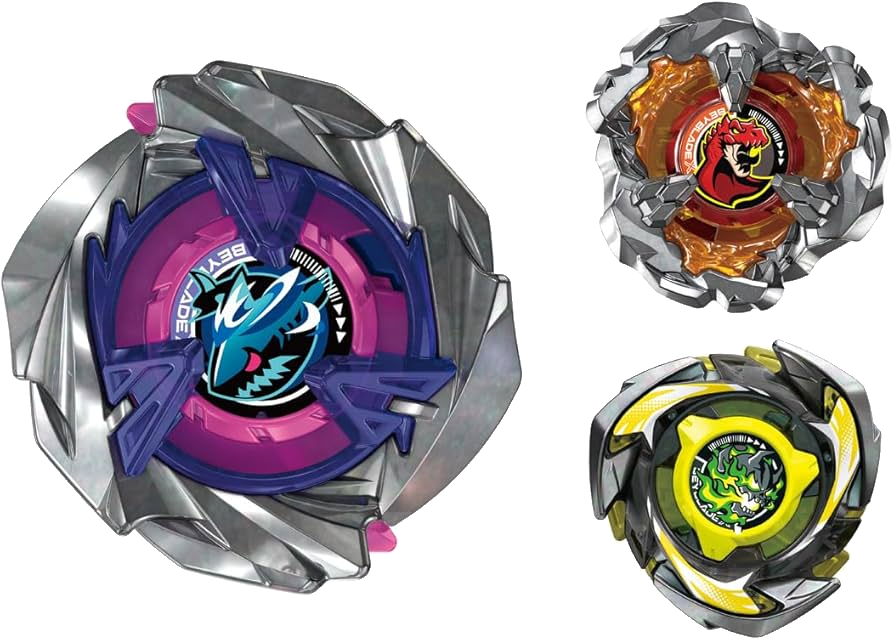
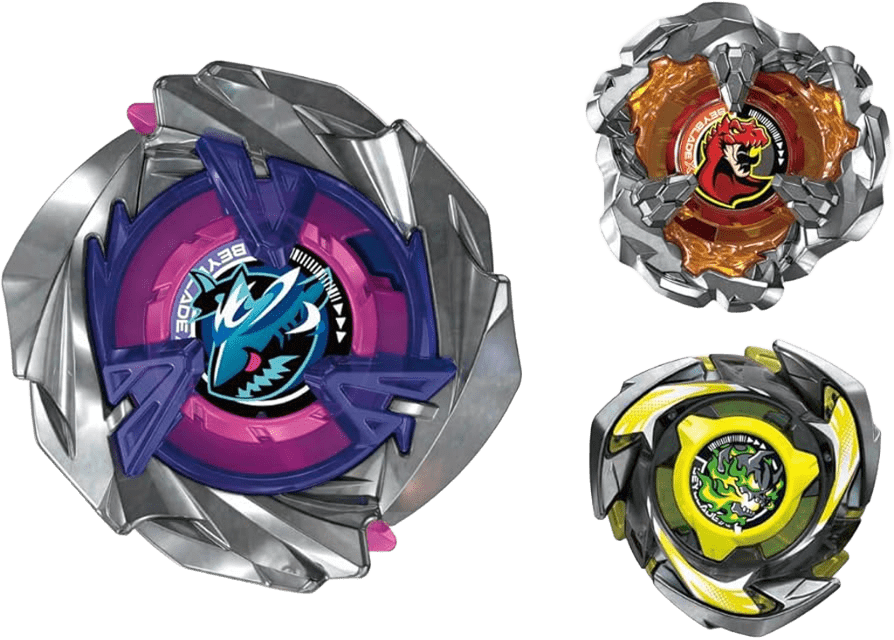
Use the background-removed prize photos

diff --git a/index.html b/index.html
@@ -205,15 +205,15 @@
       <h2><span class="num">賞</span>獎品</h2>
       <div class="prizes">
         <figure class="prize gold">
-          <img src="prize-champion.png?v=2" alt="冠軍獎品" />
+          <img src="prize-champion.png?v=3" alt="冠軍獎品" />
           <figcaption>冠軍</figcaption>
         </figure>
         <figure class="prize silver">
-          <img src="prize-runner.png" alt="亞軍獎品" />
+          <img src="prize-runner.png?v=3" alt="亞軍獎品" />
           <figcaption>亞軍</figcaption>
         </figure>
         <figure class="prize bronze">
-          <img src="prize-third.png" alt="季軍獎品" />
+          <img src="prize-third.png?v=3" alt="季軍獎品" />
           <figcaption>季軍</figcaption>
         </figure>
       </div>
